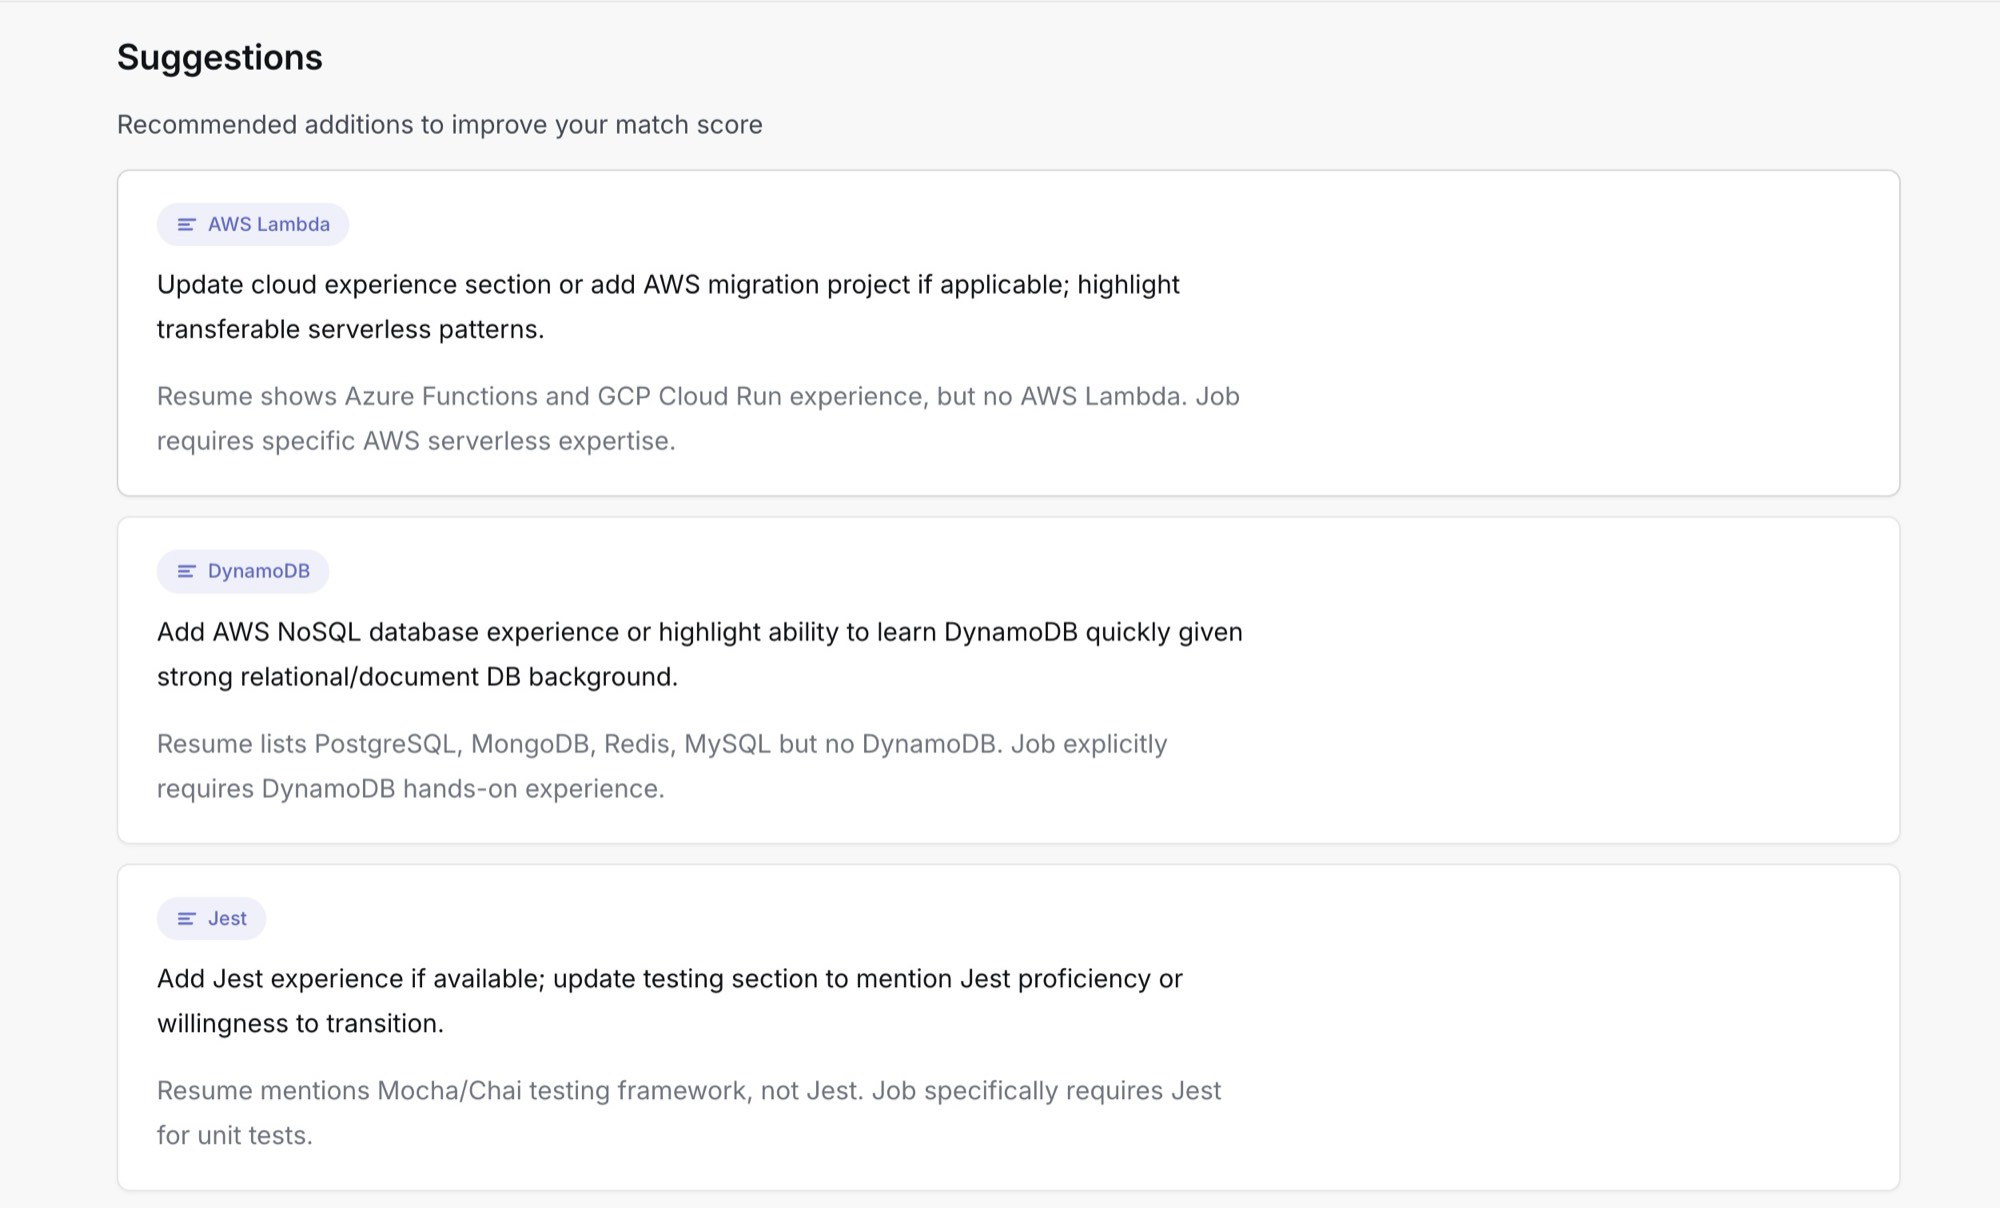
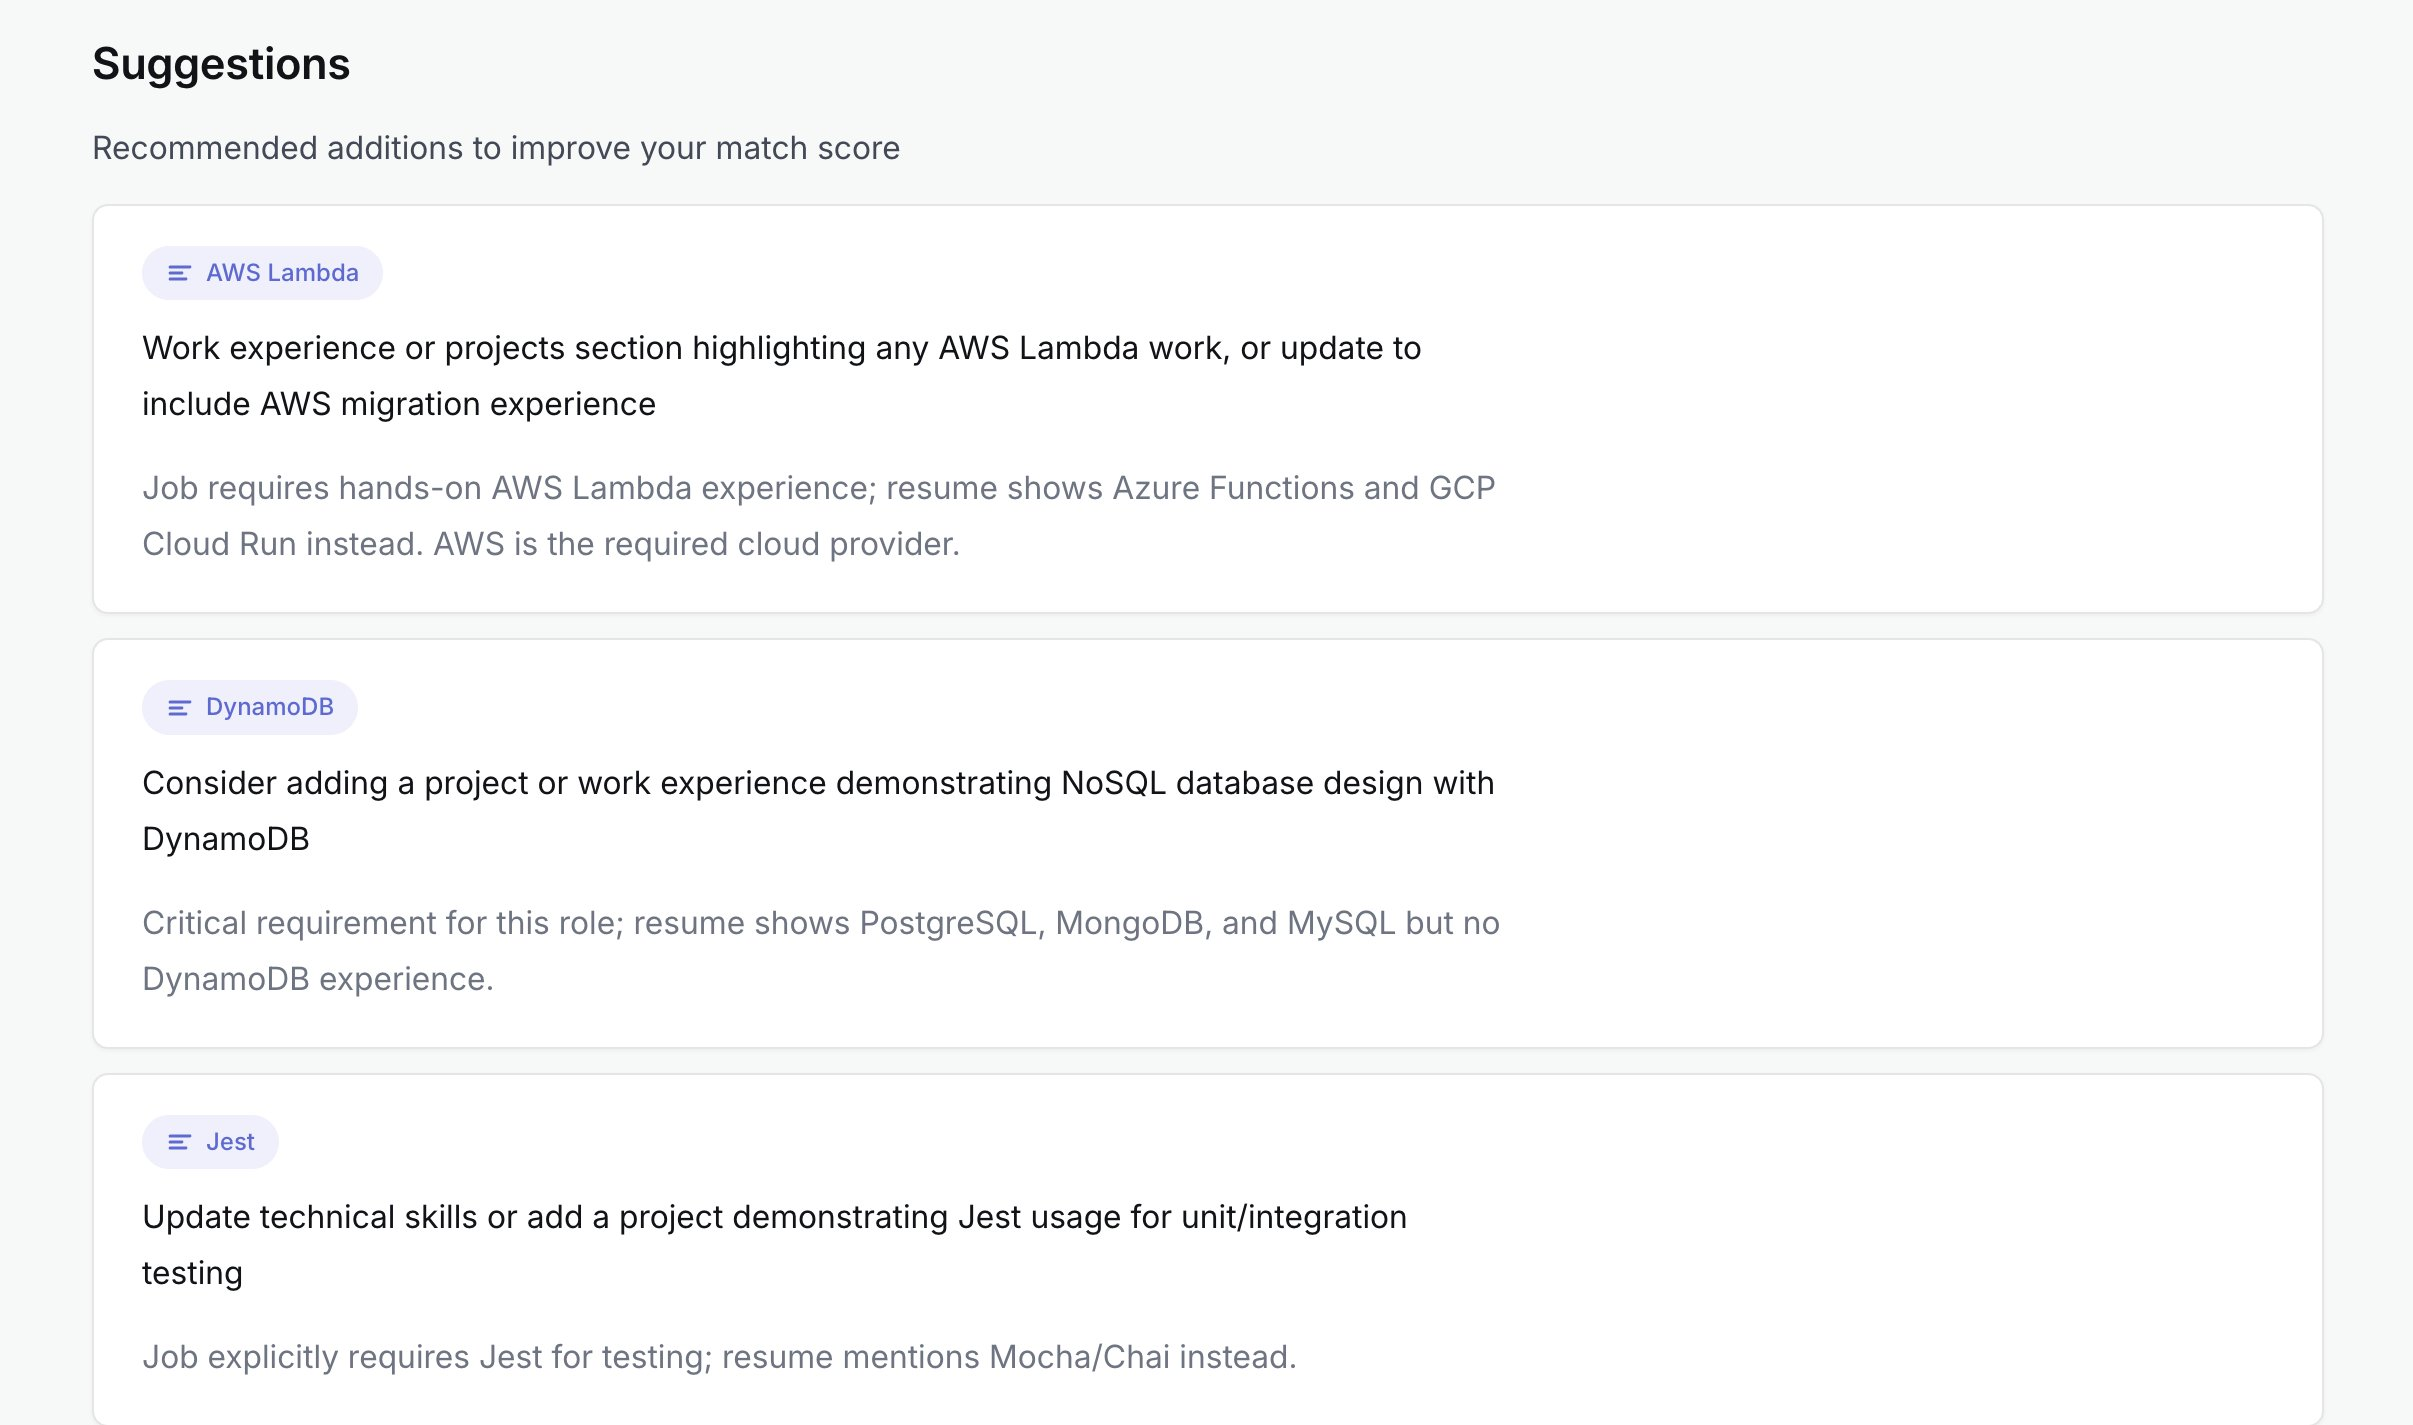
Refresh landing screenshots to one continuous Bramble Commerce example

diff --git a/src/api/errors.test.ts b/src/api/errors.test.ts
@@ -1,0 +1,34 @@
+import { describe, it, expect } from 'vitest';
+import { extractApiErrorMessage } from './errors';
+
+function axios429(data: Record<string, string> | undefined): Error {
+  const err = new Error('Request failed with status code 429');
+  (err as Error & { response?: { status: number; data?: Record<string, string> } }).response = {
+    status: 429,
+    data,
+  };
+  return err;
+}
+
+describe('extractApiErrorMessage', () => {
+  it('prefers the backend body copy over the axios status noise', () => {
+    expect(
+      extractApiErrorMessage(axios429({ error: 'Daily analysis limit reached. Try again tomorrow.' }), 'fallback')
+    ).toBe('Daily analysis limit reached. Try again tomorrow.');
+  });
+
+  it('checks body keys in order: error, errorMessage, message', () => {
+    expect(extractApiErrorMessage(axios429({ errorMessage: 'em', message: 'm' }), 'f')).toBe('em');
+    expect(extractApiErrorMessage(axios429({ message: 'm' }), 'f')).toBe('m');
+  });
+
+  it('falls back to err.message when the body has no copy', () => {
+    expect(extractApiErrorMessage(axios429(undefined), 'f')).toBe('Request failed with status code 429');
+    expect(extractApiErrorMessage(new Error('boom'), 'f')).toBe('boom');
+  });
+
+  it('uses the caller fallback for non-Error values and empty messages', () => {
+    expect(extractApiErrorMessage('nope', 'Failed to start interview')).toBe('Failed to start interview');
+    expect(extractApiErrorMessage(new Error(''), 'f')).toBe('f');
+  });
+});

diff --git a/src/api/errors.ts b/src/api/errors.ts
@@ -1,0 +1,18 @@
+/**
+ * Backend error bodies carry the user-facing copy under one of these keys —
+ * notably the daily-limit 429s from /upload and /interview/start. Axios's own
+ * err.message for those is just "Request failed with status code 429", so
+ * callers must prefer the body. Key order matches the long-standing Upload
+ * behavior: error, then errorMessage, then message.
+ */
+export function extractApiErrorMessage(err: unknown, fallback: string): string {
+  const axiosErr = err as {
+    response?: { data?: { error?: string; errorMessage?: string; message?: string } };
+  };
+  const data = axiosErr?.response?.data;
+  return data?.error
+    || data?.errorMessage
+    || data?.message
+    || (err instanceof Error ? err.message : '')
+    || fallback;
+}

diff --git a/src/pages/Landing.tsx b/src/pages/Landing.tsx
@@ -14,9 +14,9 @@ const navLinks = [
   { href: '#faq', label: 'FAQ' },
 ];
 
-const resultImage = new URL('../../screenshots/landing_result.JPG', import.meta.url).href;
+const resultImage = new URL('../../screenshots/landing_analysis_result.jpg', import.meta.url).href;
 const suggestionImage = new URL('../../screenshots/landing_suggestion.jpg', import.meta.url).href;
-const interviewImage = new URL('../../screenshots/landing_interview.jpg', import.meta.url).href;
+const interviewImage = new URL('../../screenshots/landing_interview_assessment.jpg', import.meta.url).href;
 
 const steps = [
   {
@@ -54,9 +54,9 @@ const workflowPreviews = [
     title: 'Role-based mock interview',
     body: 'Carry the same role into interview practice and review how the answers hold up.',
     image: interviewImage,
-    alt: 'Role-based mock interview results showing interview questions, transcript feedback, and evaluation for the same job context.',
-    frameClassName: ' landing-shot--preview-portrait',
-    imageClassName: ' landing-shot__image--portrait',
+    alt: 'Mock interview assessment for the same role showing an overall score with category scores for communication structure, STAR framework usage, specificity, role relevance, and self-awareness.',
+    frameClassName: ' landing-shot--preview-wide',
+    imageClassName: ' landing-shot__image--wide',
   },
 ];
 
@@ -235,7 +235,7 @@ export function Landing() {
             <figure className="landing-shot landing-shot--hero">
               <img
                 src={resultImage}
-                alt="Resume analysis results showing an overall match score, breakdown, and role-specific evaluation before applying."
+                alt="Resume analysis results showing a match score with breakdown, an experience-gap warning, and the matched and missing keywords for the job description."
                 fetchPriority="high"
                 decoding="async"
               />

diff --git a/src/pages/Upload.tsx b/src/pages/Upload.tsx
@@ -4,6 +4,7 @@ import { useAuth } from '../auth/AuthContext';
 import { FileDropzone } from '../components/FileDropzone';
 import { LastResumeCard } from '../components/LastResumeCard';
 import { requestUploadUrl, requestUploadWithReuse, uploadFileToS3, fetchLastResume } from '../api/upload';
+import { extractApiErrorMessage } from '../api/errors';
 import '../components/LastResumeCard.css';
 import './Upload.css';
 
@@ -149,7 +150,7 @@ export function Upload() {
         navigate(`/results/${analysisId}`);
       }
     } catch (err: unknown) {
-      const axiosErr = err as { response?: { status?: number; data?: { error?: string; errorMessage?: string; message?: string } } };
+      const axiosErr = err as { response?: { status?: number } };
       const status = axiosErr?.response?.status;
 
       // If reuse fails with 404, the original resume is gone — clear and fall back to dropzone
@@ -159,13 +160,7 @@ export function Upload() {
         setIsChangingResume(false);
         setError('Previous resume is no longer available. Please upload again.');
       } else {
-        const axiosData = axiosErr?.response?.data;
-        const message = axiosData?.error
-          || axiosData?.errorMessage
-          || axiosData?.message
-          || (err instanceof Error ? err.message : null)
-          || 'Upload failed. Please try again.';
-        setError(message);
+        setError(extractApiErrorMessage(err, 'Upload failed. Please try again.'));
       }
       setStage('idle');
     }

diff --git a/src/pages/Interview.tsx b/src/pages/Interview.tsx
@@ -3,6 +3,7 @@ import { useLocation, useNavigate } from 'react-router-dom';
 import { useSpeechRecognition } from '../hooks/useSpeechRecognition';
 import { useMicrophoneCheck } from '../hooks/useMicrophoneCheck';
 import { useMicrophoneLevel } from '../hooks/useMicrophoneLevel';
+import { extractApiErrorMessage } from '../api/errors';
 import {
   startInterview,
   submitTurn,
@@ -436,8 +437,9 @@ export function Interview() {
         }, 1000);
       } catch (err) {
         if (cancelled) return;
-        const msg = err instanceof Error ? err.message : 'Failed to start interview';
-        setError(msg);
+        // Surface the backend body copy (e.g. the daily interview limit) instead
+        // of axios's "Request failed with status code 429".
+        setError(extractApiErrorMessage(err, 'Failed to start interview'));
         setInterviewState('setup');
       } finally {
         startInFlightRef.current = false;
@@ -573,8 +575,7 @@ export function Interview() {
       setConversation(prev => [...prev, userTurn, aiTurn]);
       speakQuestion(nextQuestion);
     } catch (err) {
-      const msg = err instanceof Error ? err.message : 'Failed to get next question';
-      setError(msg);
+      setError(extractApiErrorMessage(err, 'Failed to get next question'));
       setInterviewState('active');
     } finally {
       if (submitInFlightRef.current === submitPromise) {

diff --git a/src/pages/Landing.css b/src/pages/Landing.css
@@ -344,12 +344,14 @@
 }
 
 .landing-shot--hero {
+  max-width: 58rem;
+  margin: 0 auto;
   border: 1px solid var(--border);
   box-shadow: var(--shadow-lg);
 }
 
 .landing-shot--hero img {
-  aspect-ratio: 3024 / 1654;
+  aspect-ratio: 2337 / 2300;
 }
 
 /* ── Sections ───────────────────────────────────────── */

diff --git a/README.md b/README.md
@@ -6,15 +6,15 @@ ResumeMatch is a production-grade, fully serverless AI resume analyzer deployed 
 
 ### Login
 
-![Login Page](screenshots/login.png)
+![Landing Page](screenshots/landing.jpg)
 
 ### Resume Analysis
 
-![Results Page](screenshots/result.png)
+![Results Page](screenshots/landing_analysis_result.jpg)
 
 ### Outreach Tracker
 
-![Tracker](screenshots/tracker.png)
+![Tracker](screenshots/readme_tracker.jpg)
 
 ## Live Demo
 